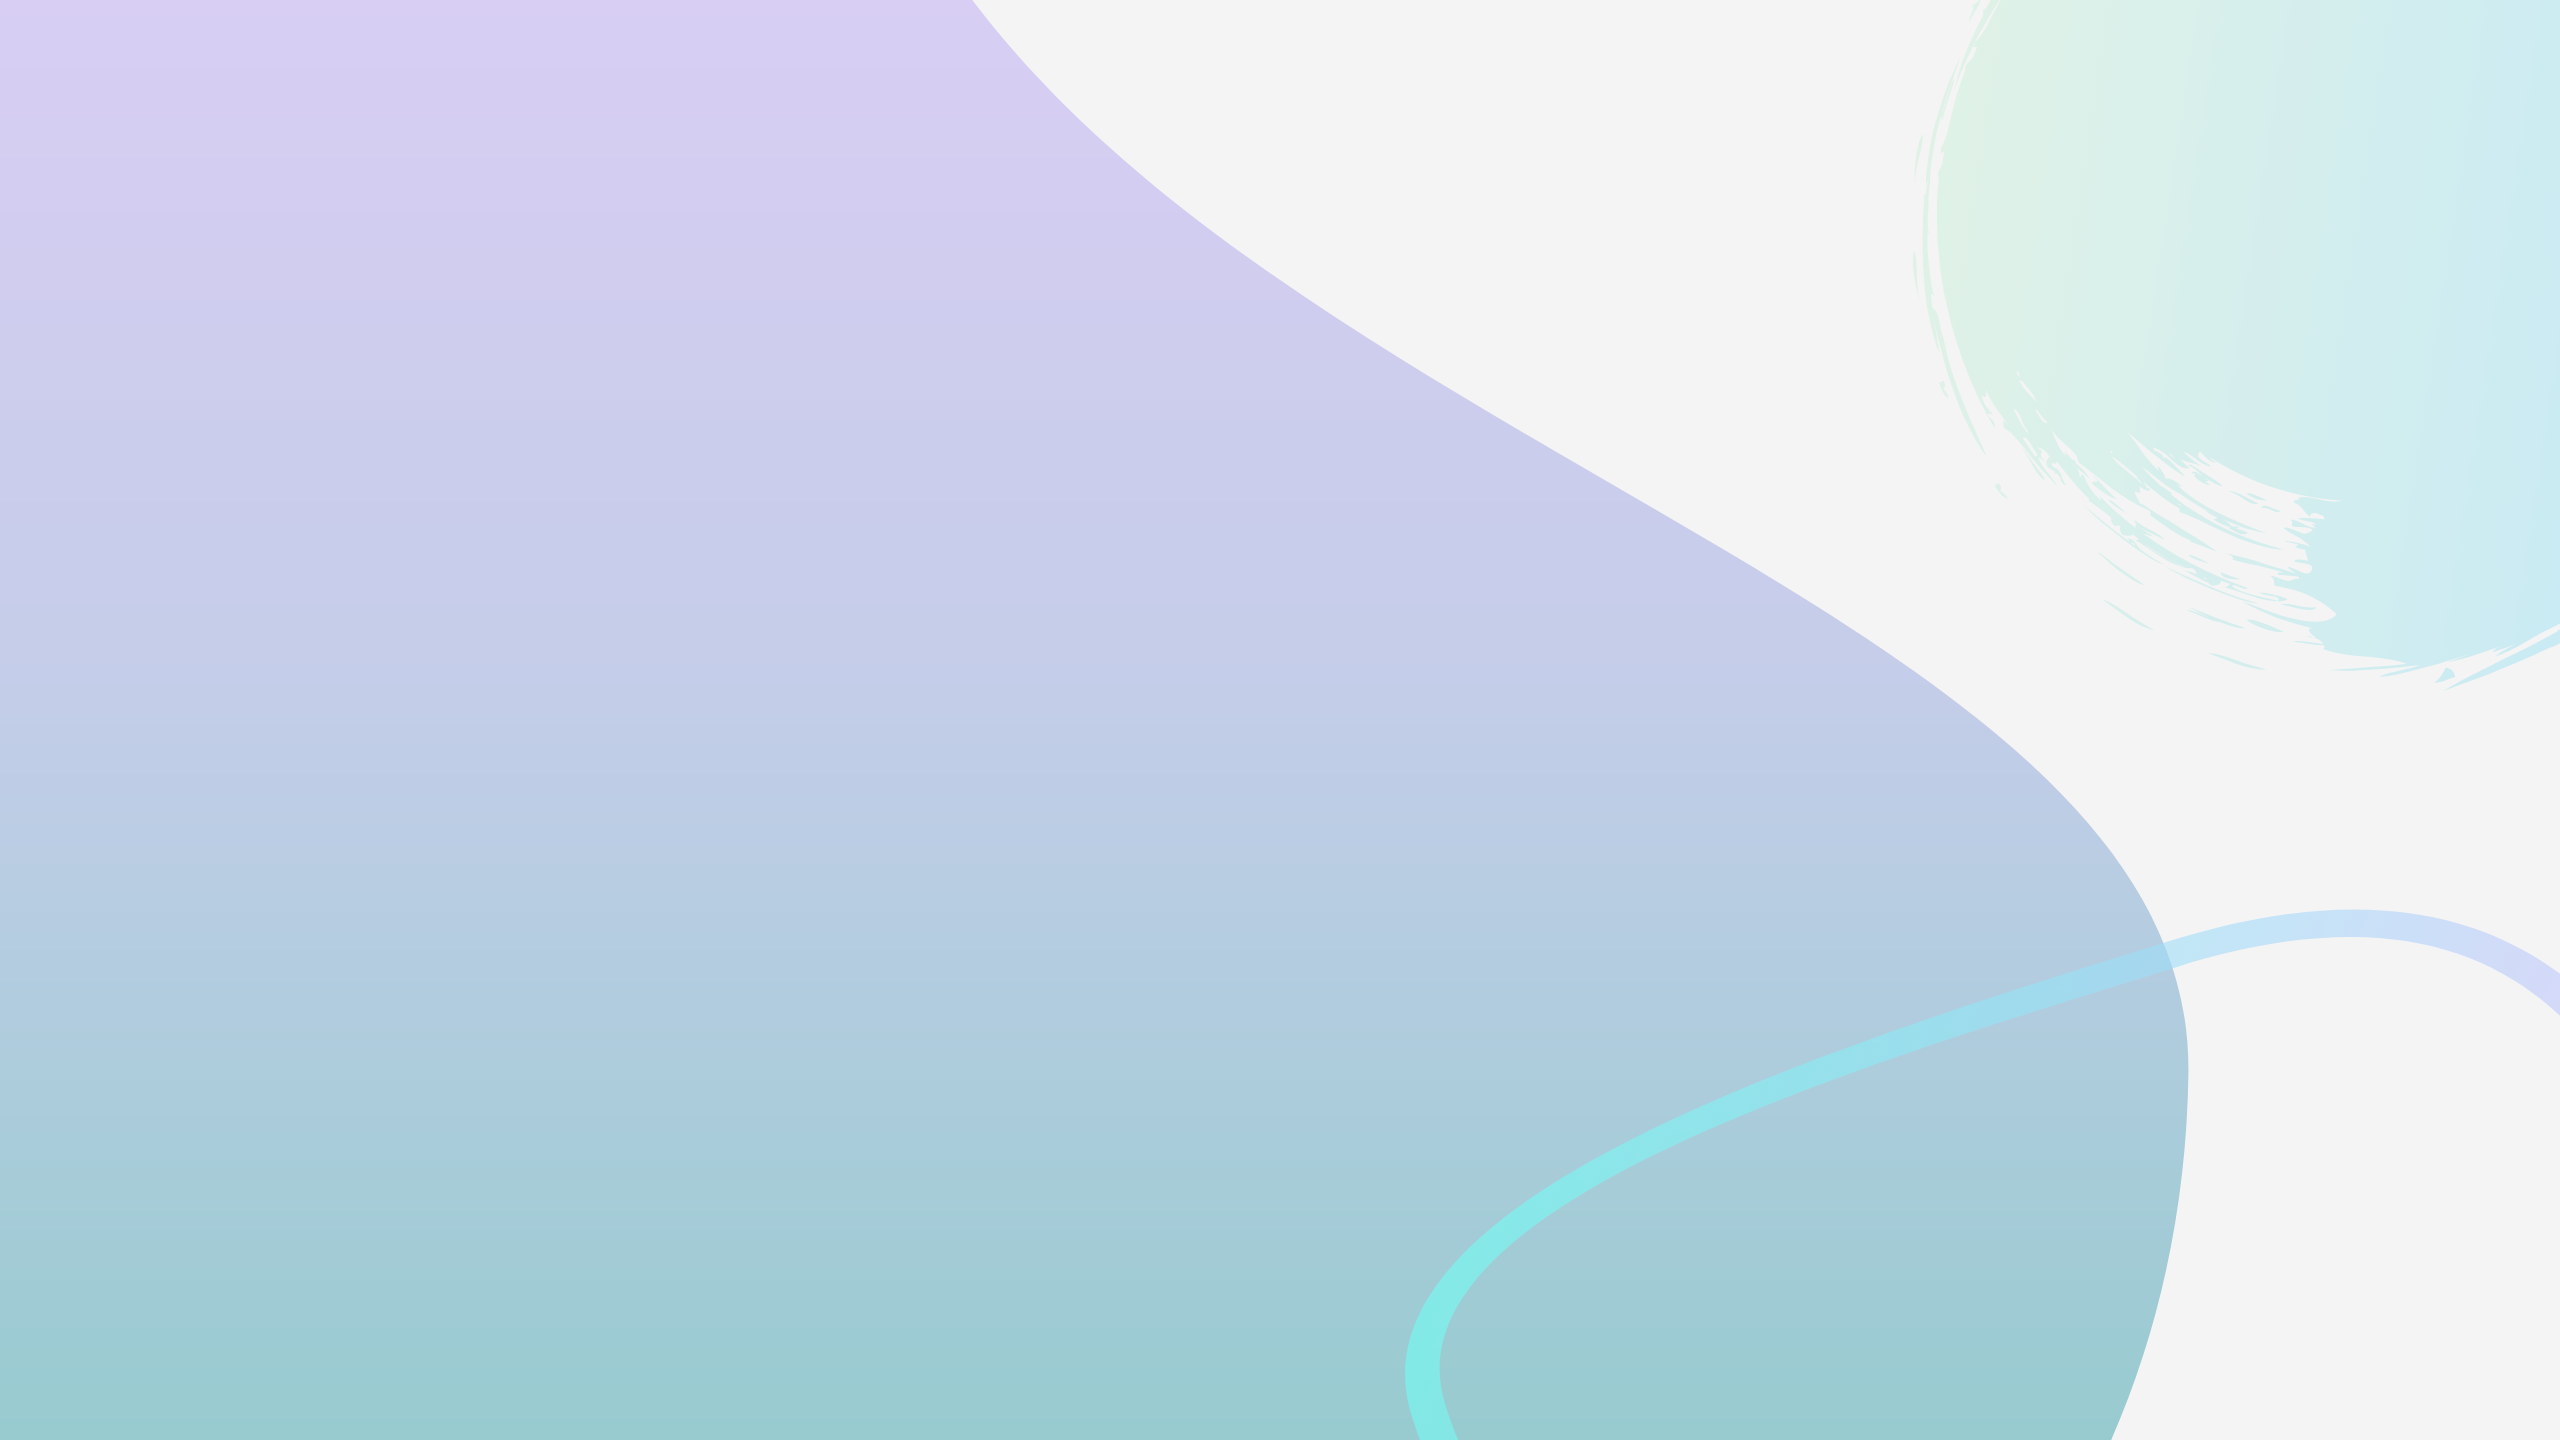
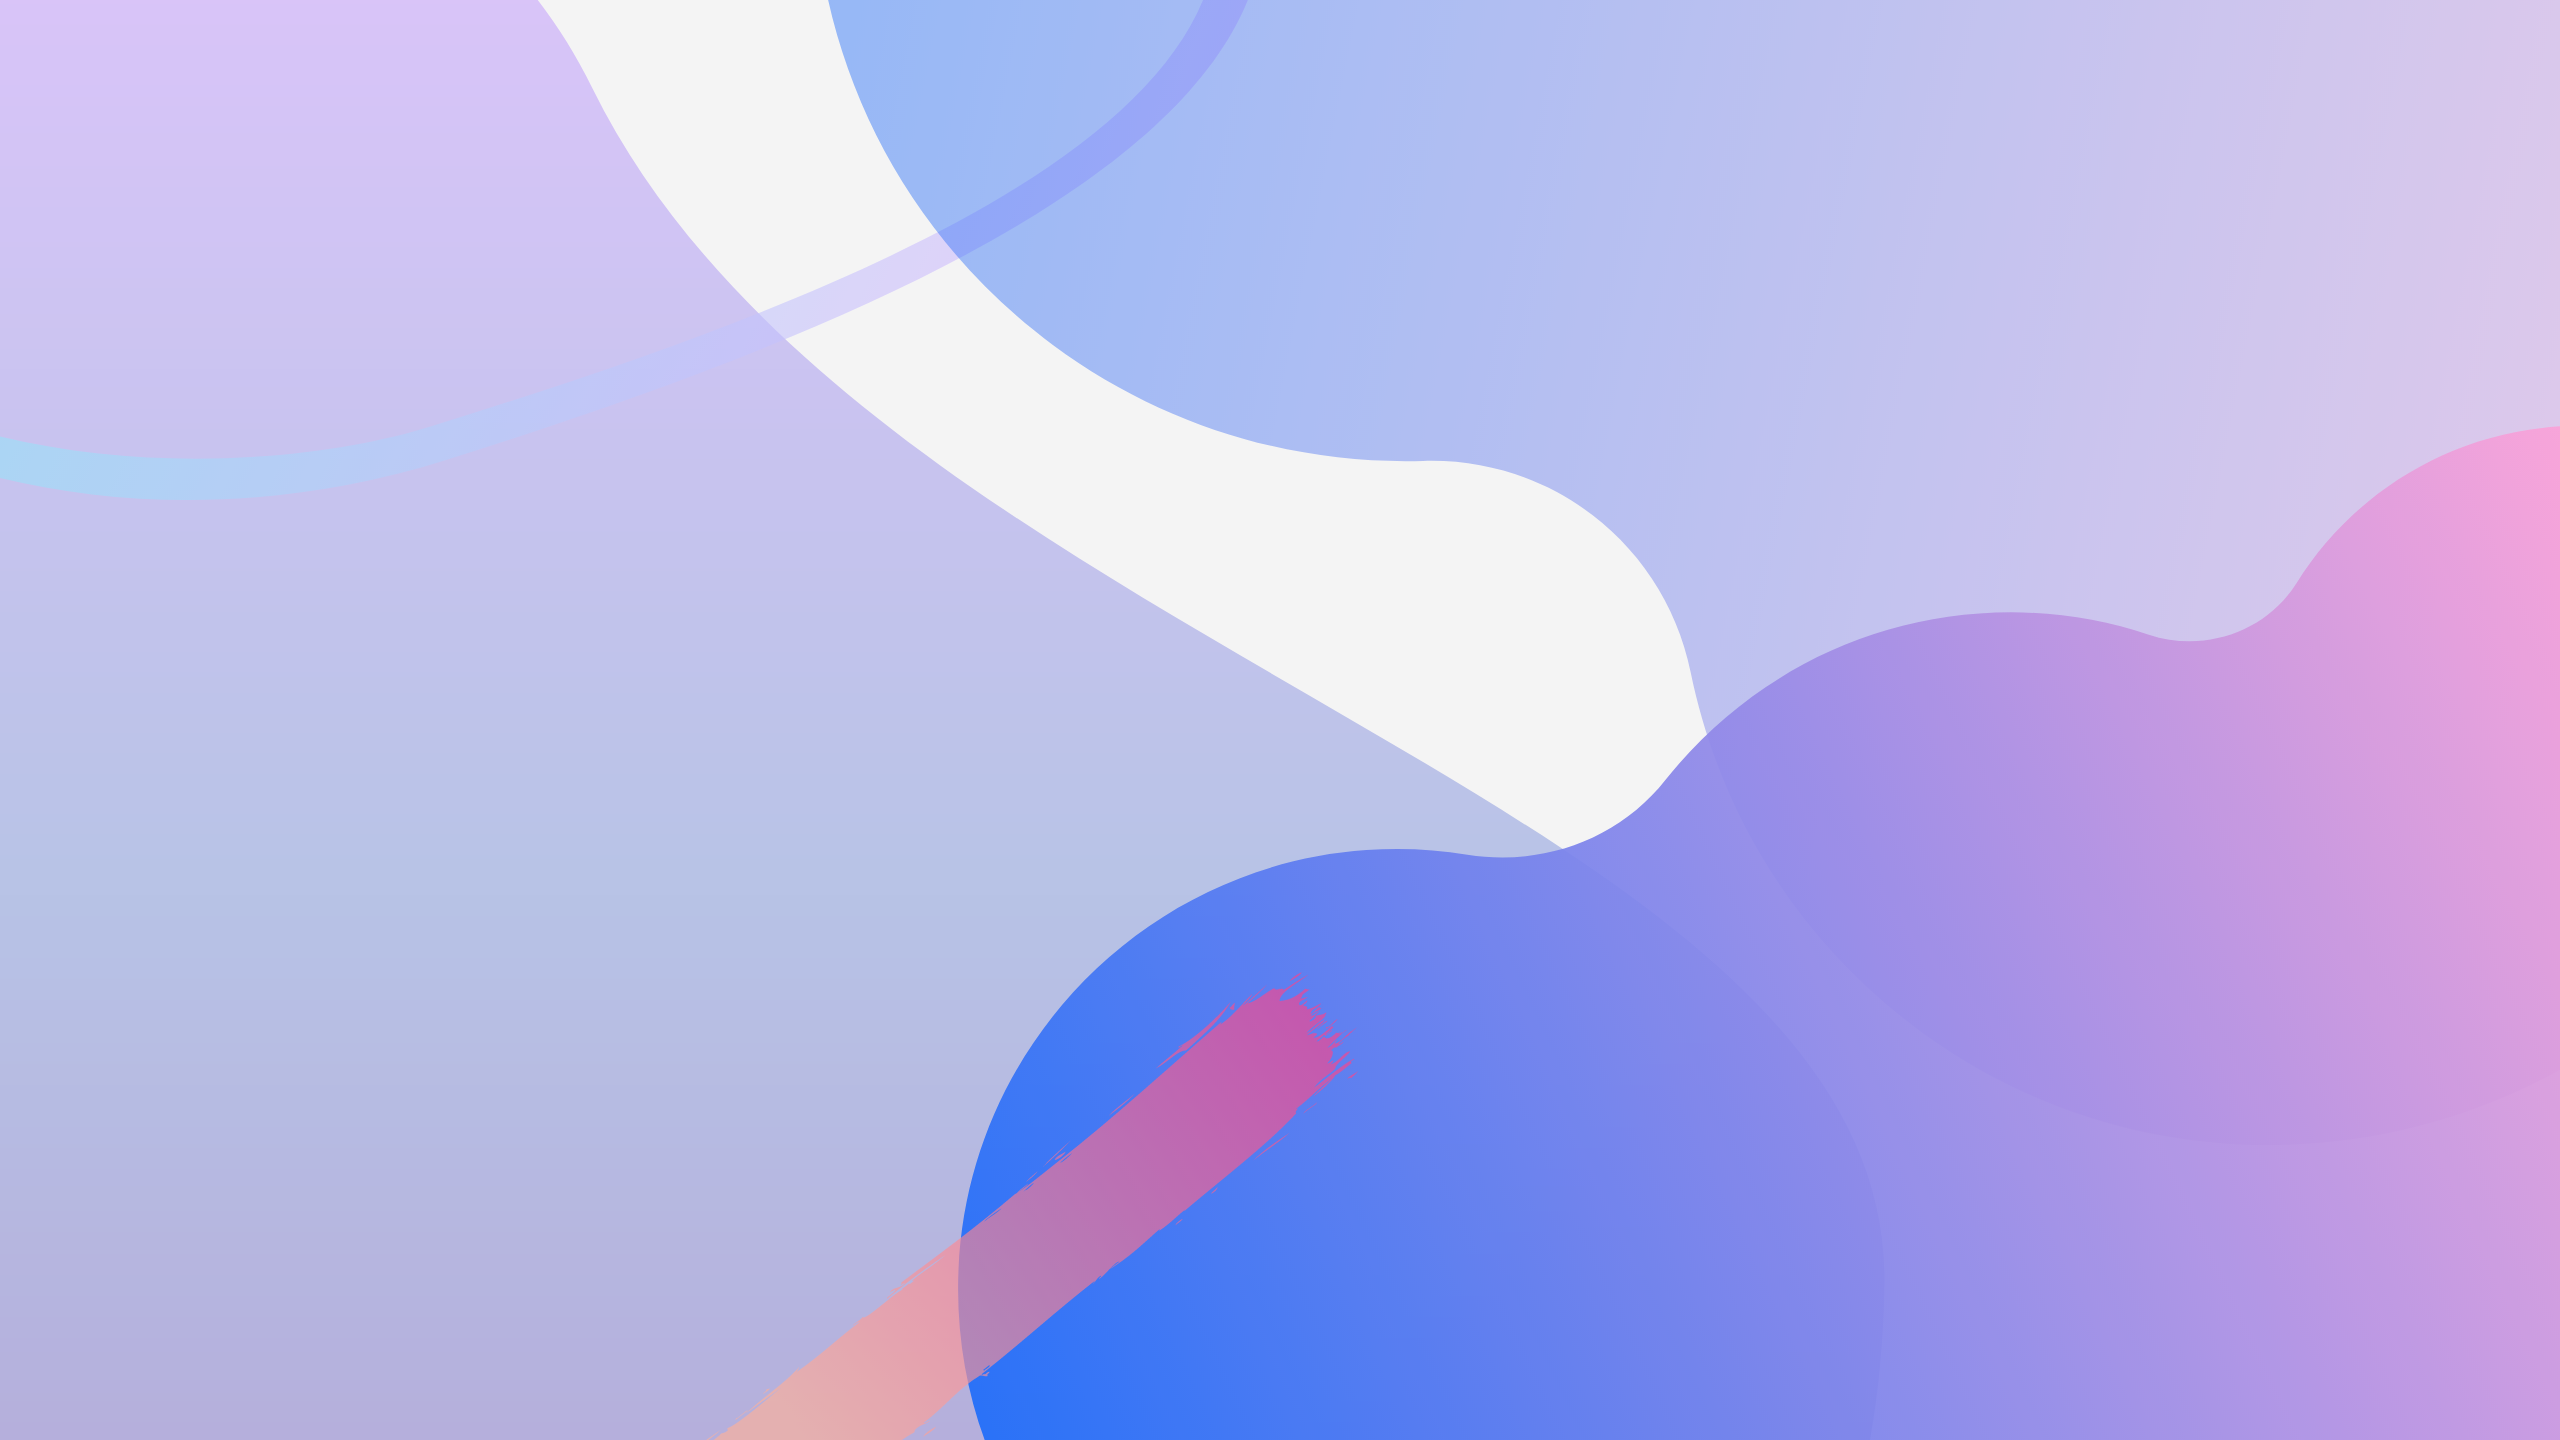
CSS: Change background and main color, JS: Scroll to section

diff --git a/main.js b/main.js
@@ -11,3 +11,72 @@ document.addEventListener('scroll', () => {
     navBar.classList.remove('navbar--dark');
   }
 });
+
+const homeContactBtn = document.querySelector('.home__contact');
+const navbarMenuItems = document.querySelectorAll('.navbar__menu__item');
+
+// Sections
+const home = document.getElementById('home');
+const about = document.getElementById('about');
+const skills = document.getElementById('skills');
+const work = document.getElementById('work');
+const contact = document.getElementById('contact');
+
+homeContactBtn.addEventListener('click', () => {
+  contact.scrollIntoView();
+});
+
+navbarMenuItems.forEach(item => {
+  item.addEventListener('click', () => {
+    removeClassName();
+    item.classList.add('active');
+
+    // check which section should go
+    const menuName = item.innerHTML.toLowerCase();
+    if (menuName.includes(home.id)) {
+      home.scrollIntoView({
+        behavior: 'smooth',
+        block: 'start',
+        inline: 'nearest',
+      });
+    }
+
+    if (menuName.includes(about.id)) {
+      about.scrollIntoView({
+        behavior: 'smooth',
+        block: 'start',
+        inline: 'nearest',
+      });
+    }
+
+    if (menuName.includes(skills.id)) {
+      skills.scrollIntoView({
+        behavior: 'smooth',
+        block: 'start',
+        inline: 'nearest',
+      });
+    }
+
+    if (menuName.includes(work.id)) {
+      work.scrollIntoView({
+        behavior: 'smooth',
+        block: 'start',
+        inline: 'nearest',
+      });
+    }
+
+    if (menuName.includes(contact.id)) {
+      contact.scrollIntoView({
+        behavior: 'smooth',
+        block: 'start',
+        inline: 'nearest',
+      });
+    }
+  });
+});
+
+const removeClassName = () => {
+  navbarMenuItems.forEach(item => {
+    item.classList.remove('active');
+  });
+};

diff --git a/style.css b/style.css
@@ -6,16 +6,16 @@
   --color-white: #ffffff;
   --color-light-white: #eeeeee;
   --color-dark-white: #bdbdbd;
-  --color-light-lilac: rgb(230, 199, 243);
-  --color-lilac: #c8a2c8;
-  --color-dark-lilac: #b785b7;
+  --color-light-lilac: rgb(223, 214, 241);
+  --color-lilac: #d2c6ed;
+  --color-dark-lilac: #c7b7ec;
   --color-black: #1e1e1e;
   --color-dark-grey: #4d4d4d;
   --color-grey: #616161;
   --color-light-grey: #7c7979;
-  --color-blue: #74add6;
-  --color-light-blue: #c0d3e2;
-  --color-dark-blue: #638299;
+  --color-blue: #9ab6f4;
+  --color-light-blue: #dae4f3;
+  --color-dark-blue: #567df1;
 
   /* Font Size */
   --font-large: 48px;
@@ -70,6 +70,7 @@ h1 {
   font-weight: var(--weight-bold);
   color: var(--color-black);
   margin: 16px 0;
+  padding: 35px 0;
 }
 
 h2 {
@@ -95,6 +96,7 @@ p {
 /* Navbar */
 #navbar {
   position: fixed;
+  z-index: 1;
   width: 100%;
   display: flex;
   justify-content: space-between;
@@ -188,6 +190,10 @@ p {
 }
 
 /* About */
+.about__introduction {
+  font-size: 22px;
+  line-height: 30px;
+}
 .about__majors {
   display: flex;
   justify-content: space-between;
@@ -335,7 +341,7 @@ p {
 }
 
 .category__count {
-  background-color: var(--color-light-lilac);
+  background-color: var(--color-blue);
   border-radius: 50%;
   color: var(--color-white);
   width: 24px;
@@ -477,7 +483,7 @@ p {
 
 .contact__links i:hover {
   transform: scale(1.1);
-  color: var(--color-light-lilac);
+  color: var(--color-blue);
 }
 
 /* For below 768px screen width */

diff --git a/index.html b/index.html
@@ -41,7 +41,7 @@
             <li class="navbar__menu__item">About</li>
             <li class="navbar__menu__item">Skills</li>
             <li class="navbar__menu__item">My work</li>
-            <li class="navbar__menu__item">Testimonial</li>
+            <!-- <li class="navbar__menu__item">Testimonial</li> -->
             <li class="navbar__menu__item">Contact</li>
           </ul>
 
@@ -70,11 +70,9 @@
         <!-- About -->
         <section id="about" class="section section__container">
           <h1>About me</h1>
-          <p>
-            Lorem ipsum dolor sit amet consectetur adipisicing elit. Corrupti,
-            beatae recusandae eos consequuntur incidunt blanditiis hic suscipit
-            inventore at quos doloremque pariatur praesentium. Dolores ad ut vel
-            amet ipsam esse!
+          <p class="about__introduction">
+            Hello world! I'm Emily Phee. <br />I'm passionate about creating
+            interactive application and brainstorming the idea of web design.
           </p>
           <div class="about__majors">
             <div class="major">
